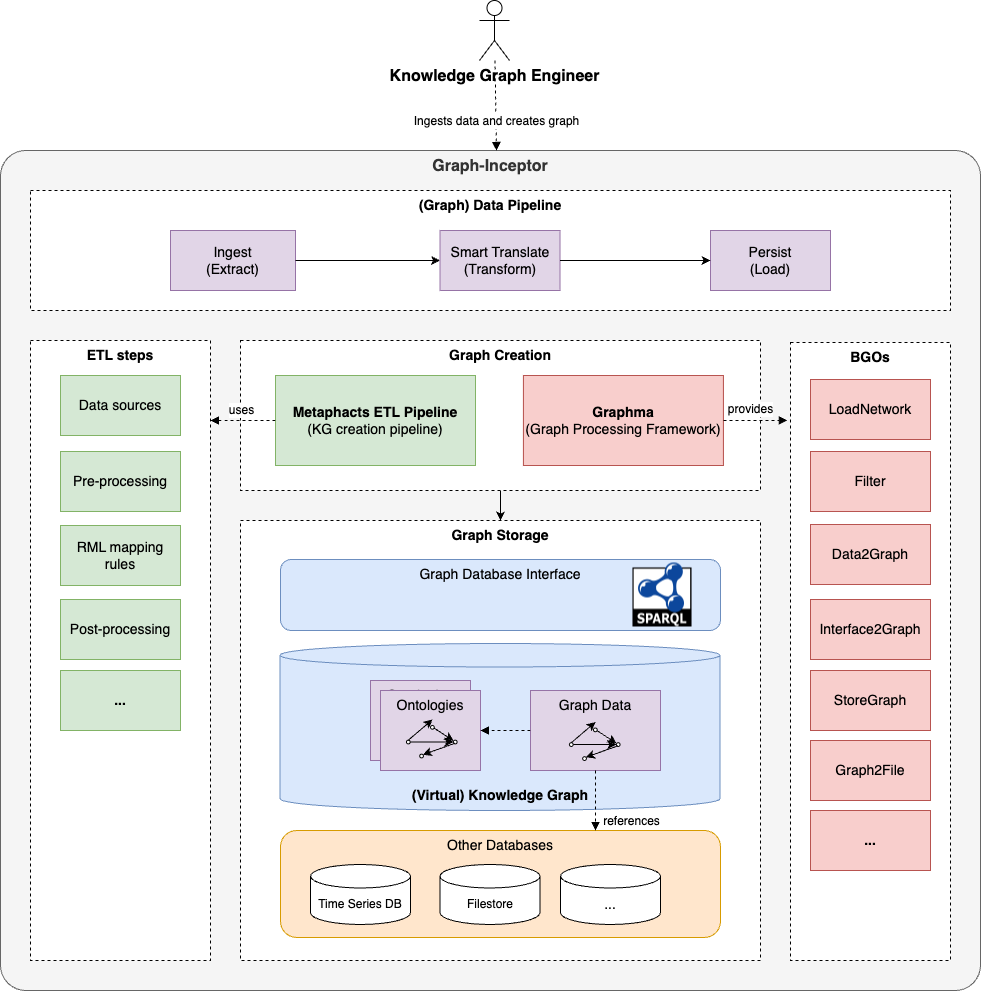
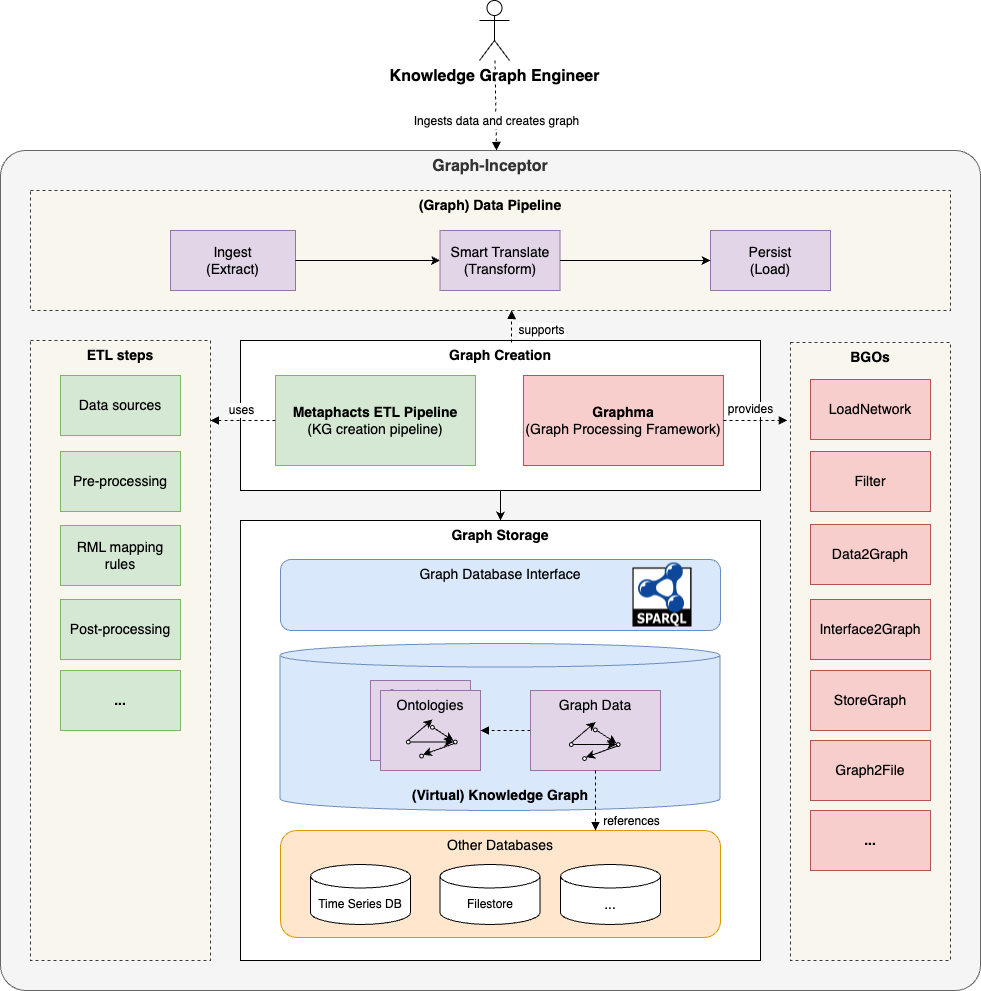
Updated README

Changed region(s): [[0.5199, 0.3027, 0.5505, 0.3633]]

diff --git a/README.md b/README.md
@@ -1,56 +1,66 @@
 # Graph-Inceptor
 
-This is the main repository for the Graph-Inceptor tool developed in Graph-Massivizer. It consists of two different components that are maintained in separate component-specific repositories:
+This is the main repository for the Graph-Inceptor tool developed in the Graph-Massivizer project.
+
+## Description
+
+### Purpose
+
+Creation of knowledge graphs (KGs), processing and storage of graph data. 
+
+### Key features
+
+Graph-Inceptor offers two main services:
+
+* A **KG creation pipeline** that 
+    * supports various source data file formats;
+    * uses declarative mappings (i.e., no programming required) to transform source data to graph data; and
+    * stores the resulting graph data in a graph database.
+
+* A **graph processing framework** that
+    * reads source or graph data in various formats;
+    * offers in-memory access and processing of graph data in various representations; and
+    * saves the resulting graph data in various graph file formats.
+
+### Architecture
+
+![Graph-Inceptor component architecture diagram](./docs/graph-inceptor_tool_level_3_revised.png)
+
+The figure above shows the architecture of the Graph-Inceptor tool. The tool consists of two subsystems, namely the **Graph Creation** and the **Graph Storage**. The **Graph Creation** subsystem supports the creation of different types of **(Graph) Data Pipelines** by a **Knowledge Graph Engineer**. As described above, Graph-Inceptor offers two main services. These services are implemented by two separate components:
+
+1. The [Metaphacts ETL Pipeline](https://github.com/graph-massivizer/graph-inceptor-etl-pipeline) provides a blueprint implementation for a *KG creation pipeline*. The pipeline can read various data sources and map them to RDF, as well as do pre- and post-processing of the data. The result is a **(Virtual) Knowledge Graph** which is stored in a **Graph Storage**. It is not necessary that all source data is converted to RDF. A virtualization approach allows referencing original data in other databases, e.g., time series data or binary files. Access and querying of the KG is supported by well-defined and standardised interfaces through SPARQL endpoints.
+
+2. [Graphma](https://github.com/graph-massivizer/graph-inceptor-graphma) is a *graph processing framework* developed by SINTEF. It reads, assembles, and processes raw or graph data from different formats, offering in-memory access and integration across various processes, and  saving the resulting graph data in various graph file formats. Graphma will support a set of basic graph operations (BGOs) such as LoadNetwork, Filter, Data2Graph, Interface2Graph, StoreGraph, Graph2File, etc.
+
+### Source code repositories
+
+The two components are maintained in two separate repositories on GitHub:
 
 * https://github.com/graph-massivizer/graph-inceptor-etl-pipeline
 * https://github.com/graph-massivizer/graph-inceptor-graphma
 
-## Description
-**DESCRIPTION PARAGRAPHS**
+### License
 
-|| Description |
-| ---- | ---- |
-|Interface||
-|Documentation||
-|README||
-|License||
-|External Libraries||
-|Programming Languages||
-|Language Dependencies||
-|Software Development Process||
-|Build Process||
+Graph-Inceptor is released as open source software under the [Apache License, Version 2.0](https://opensource.org/license/apache-2-0/)
+
+### Programming Languages
+
+The [Metaphacts ETL Pipeline](https://github.com/graph-massivizer/graph-inceptor-etl-pipeline) is released as a blueprint implementation on AWS cloud. It uses declarative mappings, which means that no programming is required. However, you will need to define mapping in the [RML language](https://rml.io/specs/rml/).
+
+The [Graphma](https://github.com/graph-massivizer/graph-inceptor-graphma) framework is released as a Java library. In addition to Java, it currently also supports the [Kotlin](https://kotlinlang.org/) programming language. We are also considering using [Apache Arrow](https://arrow.apache.org/) to support other programming languages.
+
+### External Libraries
+
+TBD
 
 ### Examples
 
-[[EXAMPLE]]
-
-Description...
-
-[[EXAMPLE]]
-
-Description...
+Use Case 0 example. TBD
 
 ## Integration
-**DESCRIPTION PARAGRAPHS**
 
-### Dependencies
-|| Description |
-| ---- | ---- |
-|Tool and Toolkit Inputs||
-|External Inputs||
-|System States||
-|Formats and Standards||
-
-### Artifacts
-|| Description |
-| ---- | ---- |
-|Software Artifacts||
-|Data Outputs||
-|Visualizations/Public-Facing Outputs||
-|Interactive Demos or Components||
-|Internal Actions and Activities||
+Graph-Inceptor provides the functionality required to create a (Virtual) Knowledge Graph for the data sources provided by the use cases in the Graph-Massivizer project. The KG is the starting point for further operations and processing of graph data through basic graph operations (BGOs) supported by Graph-Inceptor and Graph-Scrutinizer.
 
 ## Tests
-| Test | Validates Condition | Pass/Failure Criteria | Description |
-| ---- | ------------------- | --------------------- | ----------- |
-|||||
+
+Both components of Graph-Inceptor intend to use unit testing to test individual functions (e.g., the implementation of a set of BGOs). However, this is not sufficient to test that a **Graph Data Pipeline** actually works. For this we also need integration testing. A first step in defining such integration tests is to have a fully working data pipeline, e.g., the Use Case 0 (UC-0) example described above.
